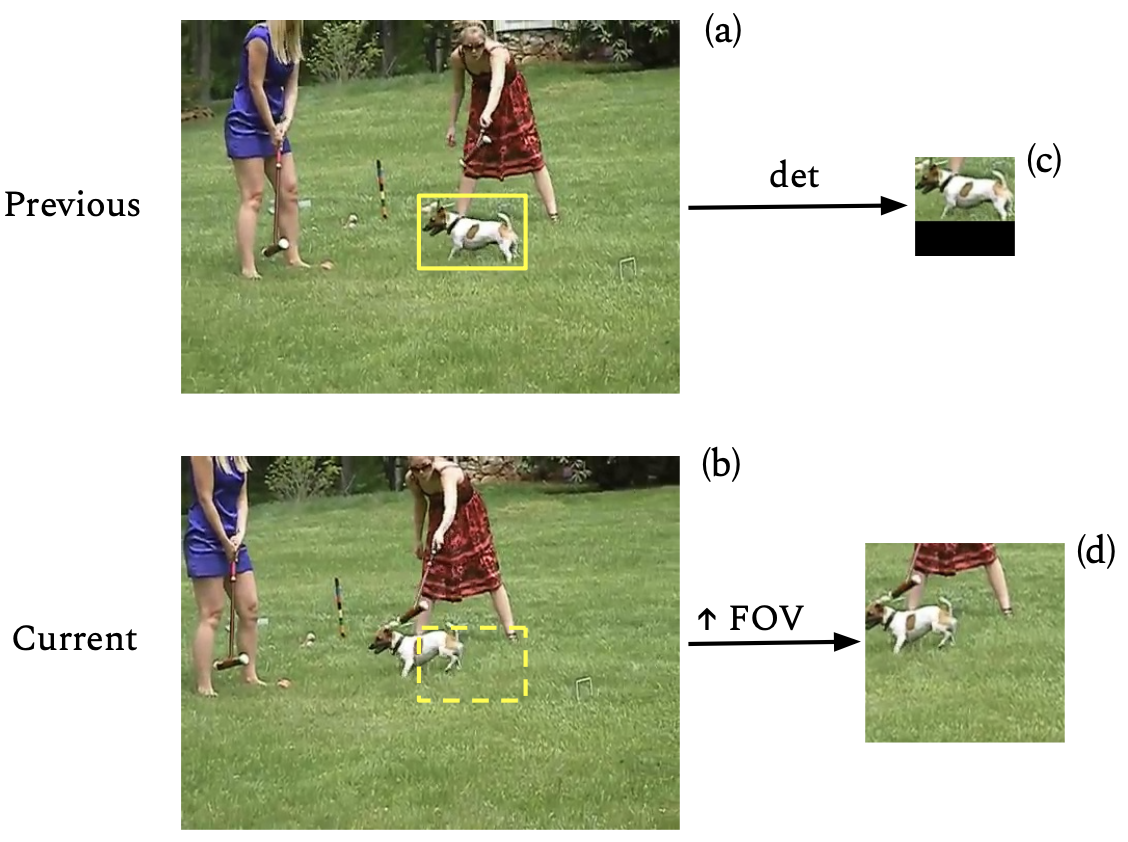
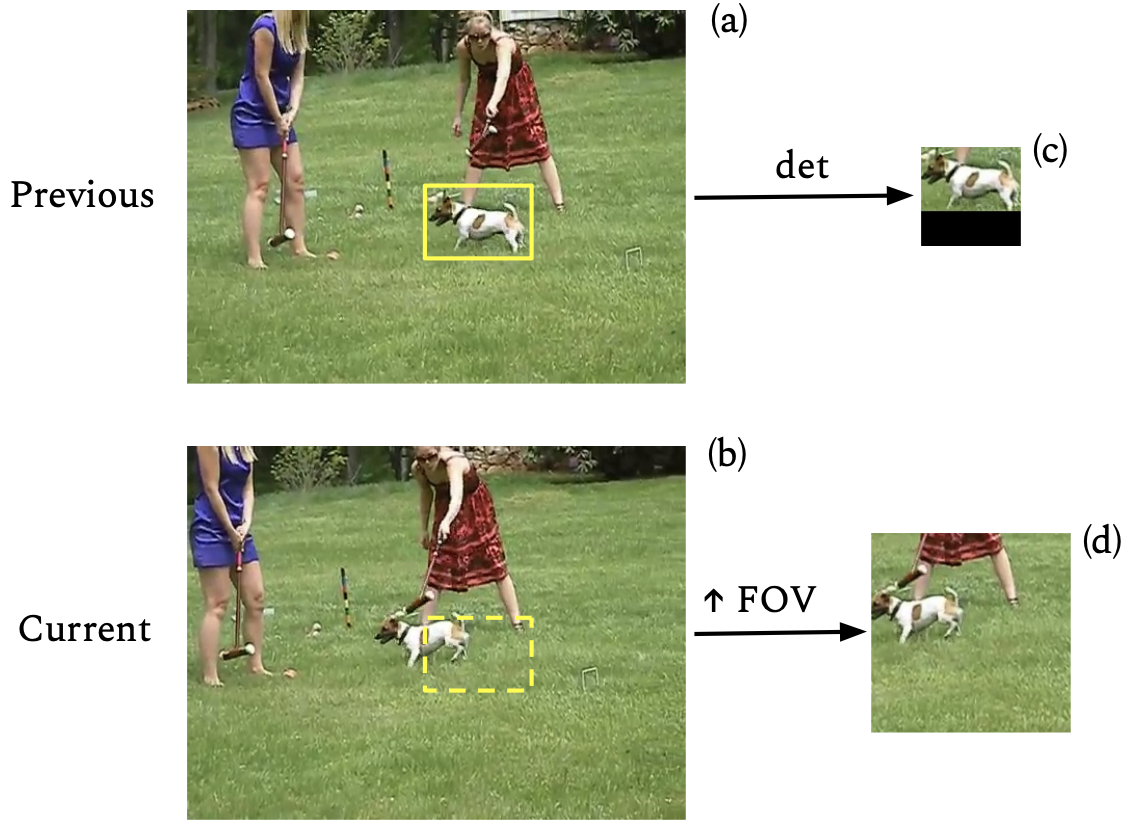
Update to fig sizes

diff --git a/README.md b/README.md
@@ -20,7 +20,7 @@ Alternatively,
 Figs. 1 and 2 show a conceptual depiction of TrackerNet. As shown in Fig. 1, tracking is performed on a "previous" and "current" frame. Given an object specified in the "previous" frame by a bounding box, the algorithm searches for it in the "current" frame. Rather than looking at the entirety of the "current" frame for the desired object, a preprocessing step retrieves a subset of the frame with an increased field of view (FOV). TrackerNet is currently implemented such that the "current" input frame has twice the FOV of the cropped image represented by Fig. 1(c). Ultimately, the images represented by Fig. 1(c) and 1(d) are passed as inputs to the CNN.
 
 <div align="center">
-  <p><img src="figs/overview_1.png" width="450"></p>
+  <p><img src="figs/overview_1.png" width="550"></p>
   <p>Fig. 1: Given two input frames, the images represented <br/>by (c) and (d) are passed as inputs to the CNN.</p>
 </div>
 
@@ -35,7 +35,7 @@ Finally, the parameters at the output of the CNN describe the bounding box for t
 The TrackerNet architecture is shown in Fig. 3. The "head" is defined by the operations prior to the concatenation operation and . Conversely, the tail 
 
 <div align="center">
-  <p><img src="figs/cnn.png" width="600"></p>
+  <p><img src="figs/cnn.png" width="700"></p>
   <p>Fig. 3: Image on which detection is to be performed with <br/>depiction of region to be analyzed by the image classifier.</p>
 </div>
 
